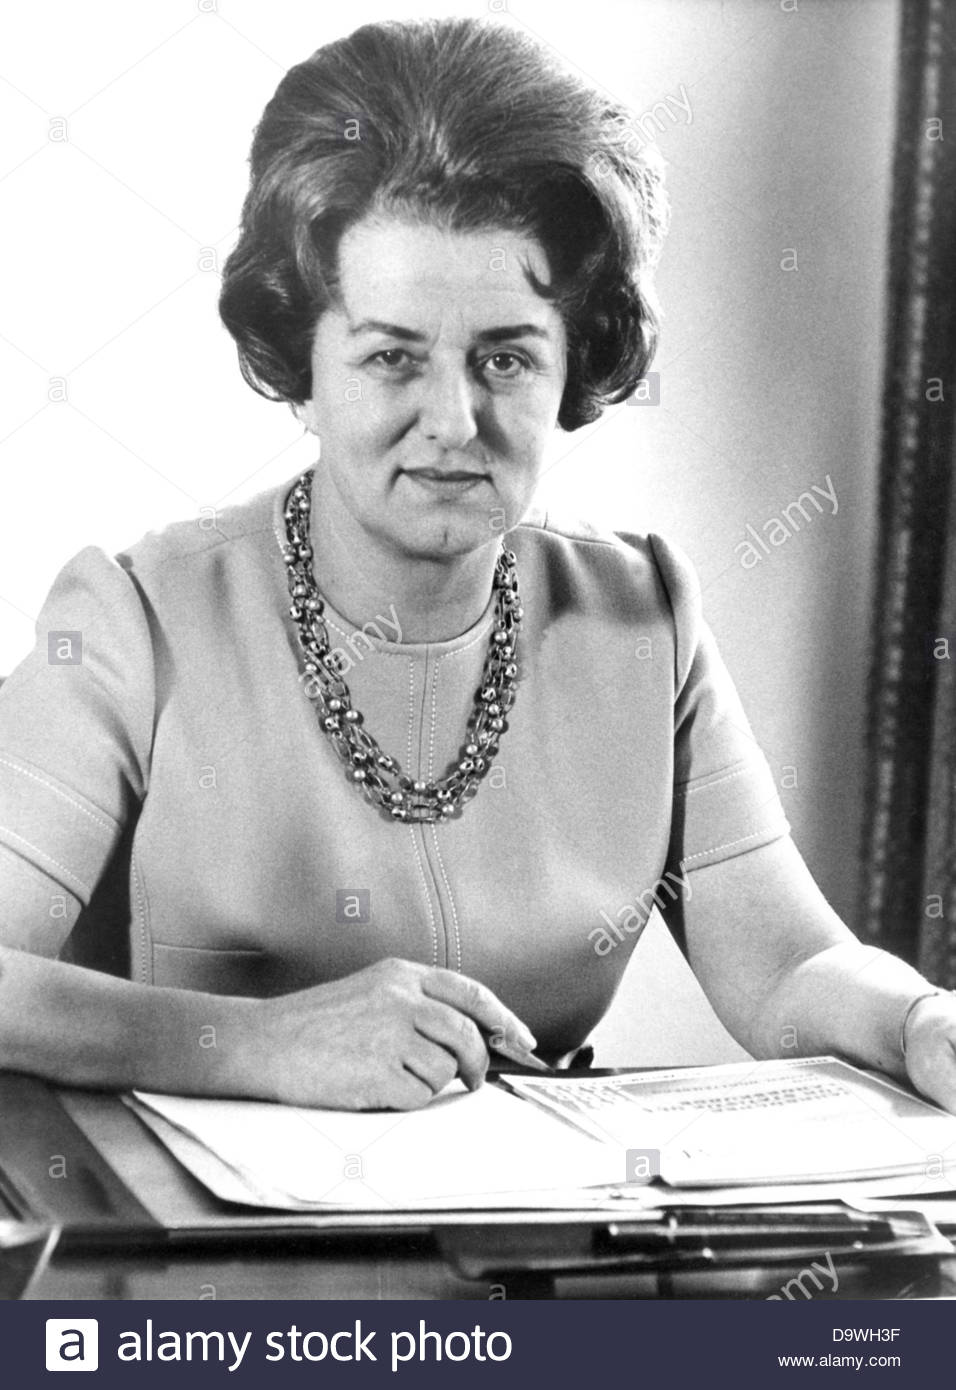
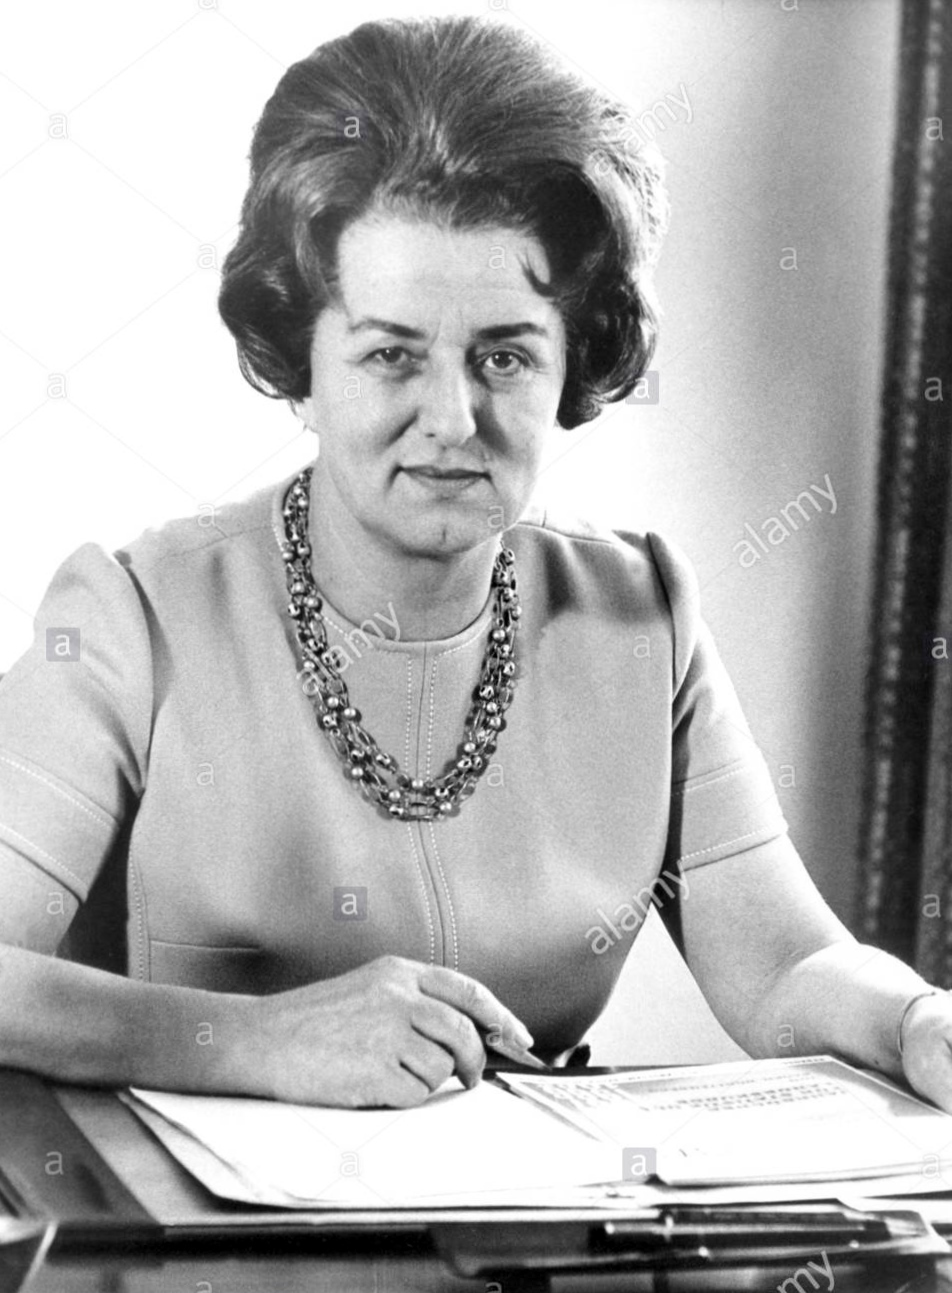
more styling to prize.html, text-decoration, image sizing, captions etc.

diff --git a/assets/css/styles.css b/assets/css/styles.css
@@ -359,7 +359,7 @@ border: 1px solid #E63946;
       flex-wrap: wrap;
   -webkit-box-pack: center;
       -ms-flex-pack: center;
-          justify-content: center;
+justify-content: center;
 }
 
 
@@ -389,13 +389,14 @@ border: 1px solid #E63946;
 }
 
 
+
 .grid-item figure img {
   display: block;
-  
   width: 100%;
   height: 100%;    
-
-    box-shadow: 0 1px 3px rgba(0,0,0,0.12), 0 1px 2px rgba(0,0,0,0.24);
+  border: 1px solid #A8DADC;
+  border-radius: 10px;
+box-shadow: 0 1px 3px rgba(0,0,0,0.12), 0 1px 2px rgba(0,0,0,0.24);
   transition: all 0.3s cubic-bezier(.25,.8,.25,1);
 }
 
@@ -410,9 +411,23 @@ border: 1px solid #E63946;
   font-weight: bold;
   padding: .625rem .5rem;
   background:#F1FAEE;
-  font-size: 1.2rem;
+  font-size: 1.3rem;
+  border: #A8DADC;
+  border-radius: 10px;
+  margin-top: 3px;
 }
 
+
+.description {
+
+    font-size: 1.2rem;
+}
+
+.description p a {
+
+    color:#A8DADC;
+    text-decoration: none;
+}
 
 
 .restart-btn {

diff --git a/prize.html b/prize.html
@@ -15,7 +15,6 @@
 <h1 class="page-title">Your Prize</h1>
     <h2 class ="lead"> Eight Women Trailblazers in Statistics - a Closer Look...</h2>
     <!--https://stackoverflow.com/questions/4426184/how-to-go-from-one-page-to-another-page-using-javascript for button redirect below:-->
-    
     <h2 class ="lead">...or</h2>
     <button type ="button" class ="restart-btn" onclick="clickedButton()" id="restart-button"><span>click</span> to restart game</button>
 <!-- Portfolio Gallery Grid -->
